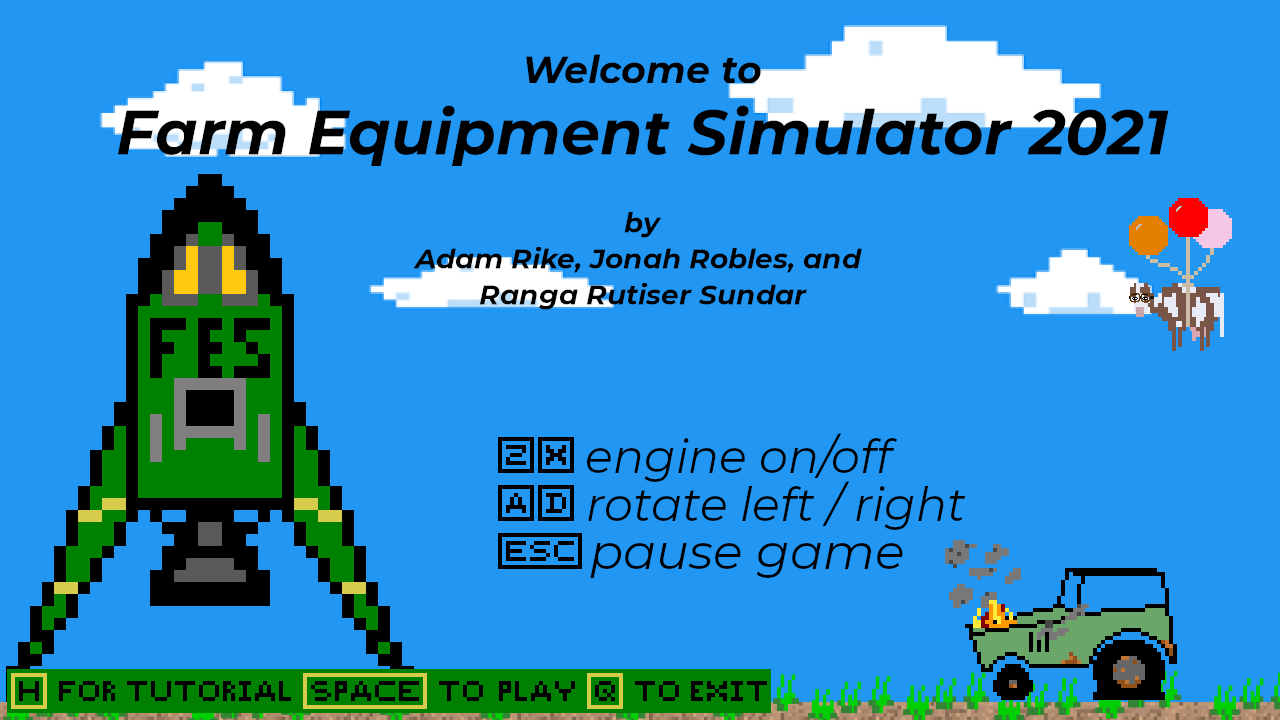
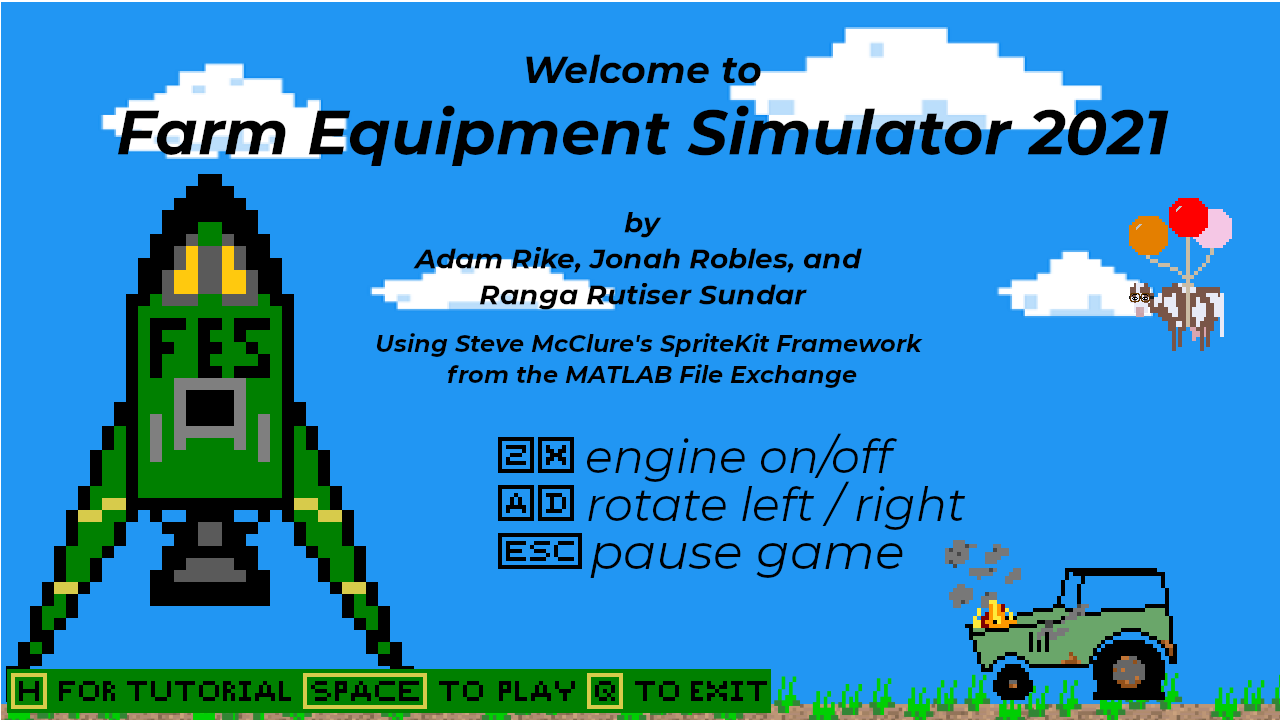
Removed throttle gauge
-Throttle is no longer incremental, removed throttle gauge
-Updated title screen with attribution for Steve McClure's SpriteKit Framework
-Renamed User Guide to User Guide v3

diff --git a/gameMain.m b/gameMain.m
@@ -204,6 +204,7 @@ fuelGaugeRect.LineWidth = Const.fuelGaugeLineWidth;
 fuelText = text(Const.fuelTextX, Const.fuelTextY, "Fuel");
 fuelText.FontSize = 14;
 
+%{
 %Create throttle gauge outline rectangle
 throtGaugeRect = rectangle('Position', Const.throtGaugeRectPos);
 throtGaugeRect.EdgeColor = Const.throtGaugeEdgeColor;
@@ -219,6 +220,7 @@ throtFillRect.LineWidth = Const.throtGaugeLineWidth;
 %Throttle gauge label text
 throtText = text(Const.throtTextX, Const.throtTextY, "Throttle");
 throtText.FontSize = 16;
+%}
 
 %Altitude text, initialized to blank. It will be updated when playing.
 altitudeText = text(Const.altTextX, Const.altTextY, "");
@@ -266,10 +268,12 @@ function action
             fuelFillRect.Visible = 'off';
             fuelText.Visible = 'off';
             
+            %{
             throtGaugeRect.Visible = 'off';
             throtFillRect.Visible = 'off';
             throtText.Visible = 'off';
-            
+            %}
+
             altitudeText.Visible = 'off';
             scoreText.Visible = 'off';
 
@@ -306,10 +310,12 @@ function action
             fuelFillRect.Visible = 'off';
             fuelText.Visible = 'off';
             
+            %{
             throtGaugeRect.Visible = 'off';
             throtFillRect.Visible = 'off';
             throtText.Visible = 'off';
-            
+            %}
+
             altitudeText.Visible = 'off';
             scoreText.Visible = 'off';
             
@@ -361,10 +367,12 @@ function action
                 fuelFillRect.Visible = 'on';
                 fuelText.Visible = 'on';
                 
+                %{
                 %Make throttle gauge visible
                 throtGaugeRect.Visible = 'on';
                 throtFillRect.Visible = 'on';
                 throtText.Visible = 'on';
+                %}
                 altitudeText.Visible = 'on'; %altimeter text
                 scoreText.Visible = 'on'; %Score text
             else
@@ -372,11 +380,11 @@ function action
                 fuelGaugeRect.Visible = 'off';
                 fuelFillRect.Visible = 'off';
                 fuelText.Visible = 'off';
-                
+                %{
                 throtGaugeRect.Visible = 'off';
                 throtFillRect.Visible = 'off';
                 throtText.Visible = 'off';
-                
+                %}
                 altitudeText.Visible = 'off';
                 scoreText.Visible = 'off';
             end
@@ -609,8 +617,8 @@ function action
                 
             %Update throttle gauge
             %width based on throttle value
-            throtFillWidth = Const.throtGaugeWidth * rocket.throttle;
-            throtFillRect.Position(3) = throtFillWidth;
+            %throtFillWidth = Const.throtGaugeWidth * rocket.throttle;
+            %throtFillRect.Position(3) = throtFillWidth;
             
             %% Background
             %The scroll function requires a positive value. We store change
@@ -704,10 +712,12 @@ function action
         fuelFillRect.Visible = 'off';
         fuelText.Visible = 'off';
         
+        %{
         %Hide throttle gauge
         throtGaugeRect.Visible = 'off';
         throtFillRect.Visible = 'off';
         throtText.Visible = 'off';
+        %}
         
         altitudeText.Visible = 'off'; %Hide altitude text
         scoreText.Visible = 'on'; %Show score text
